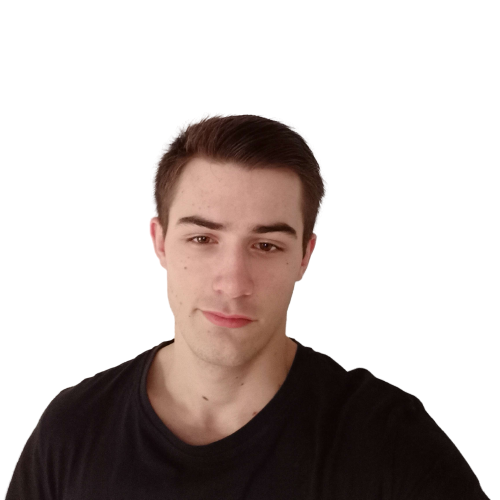
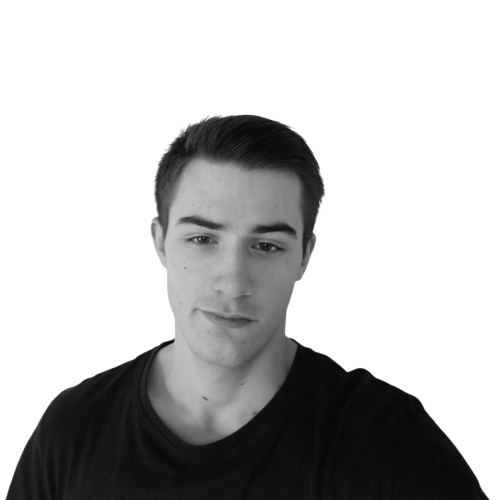
Profile picture -> B&W

diff --git a/index.css b/index.css
@@ -635,7 +635,7 @@ footer{
         filter: blur(0px);
         left: 50%;
         width: 190px;
-        opacity: 0.6;
+        opacity: 0.5;
     }
 
     .button{
